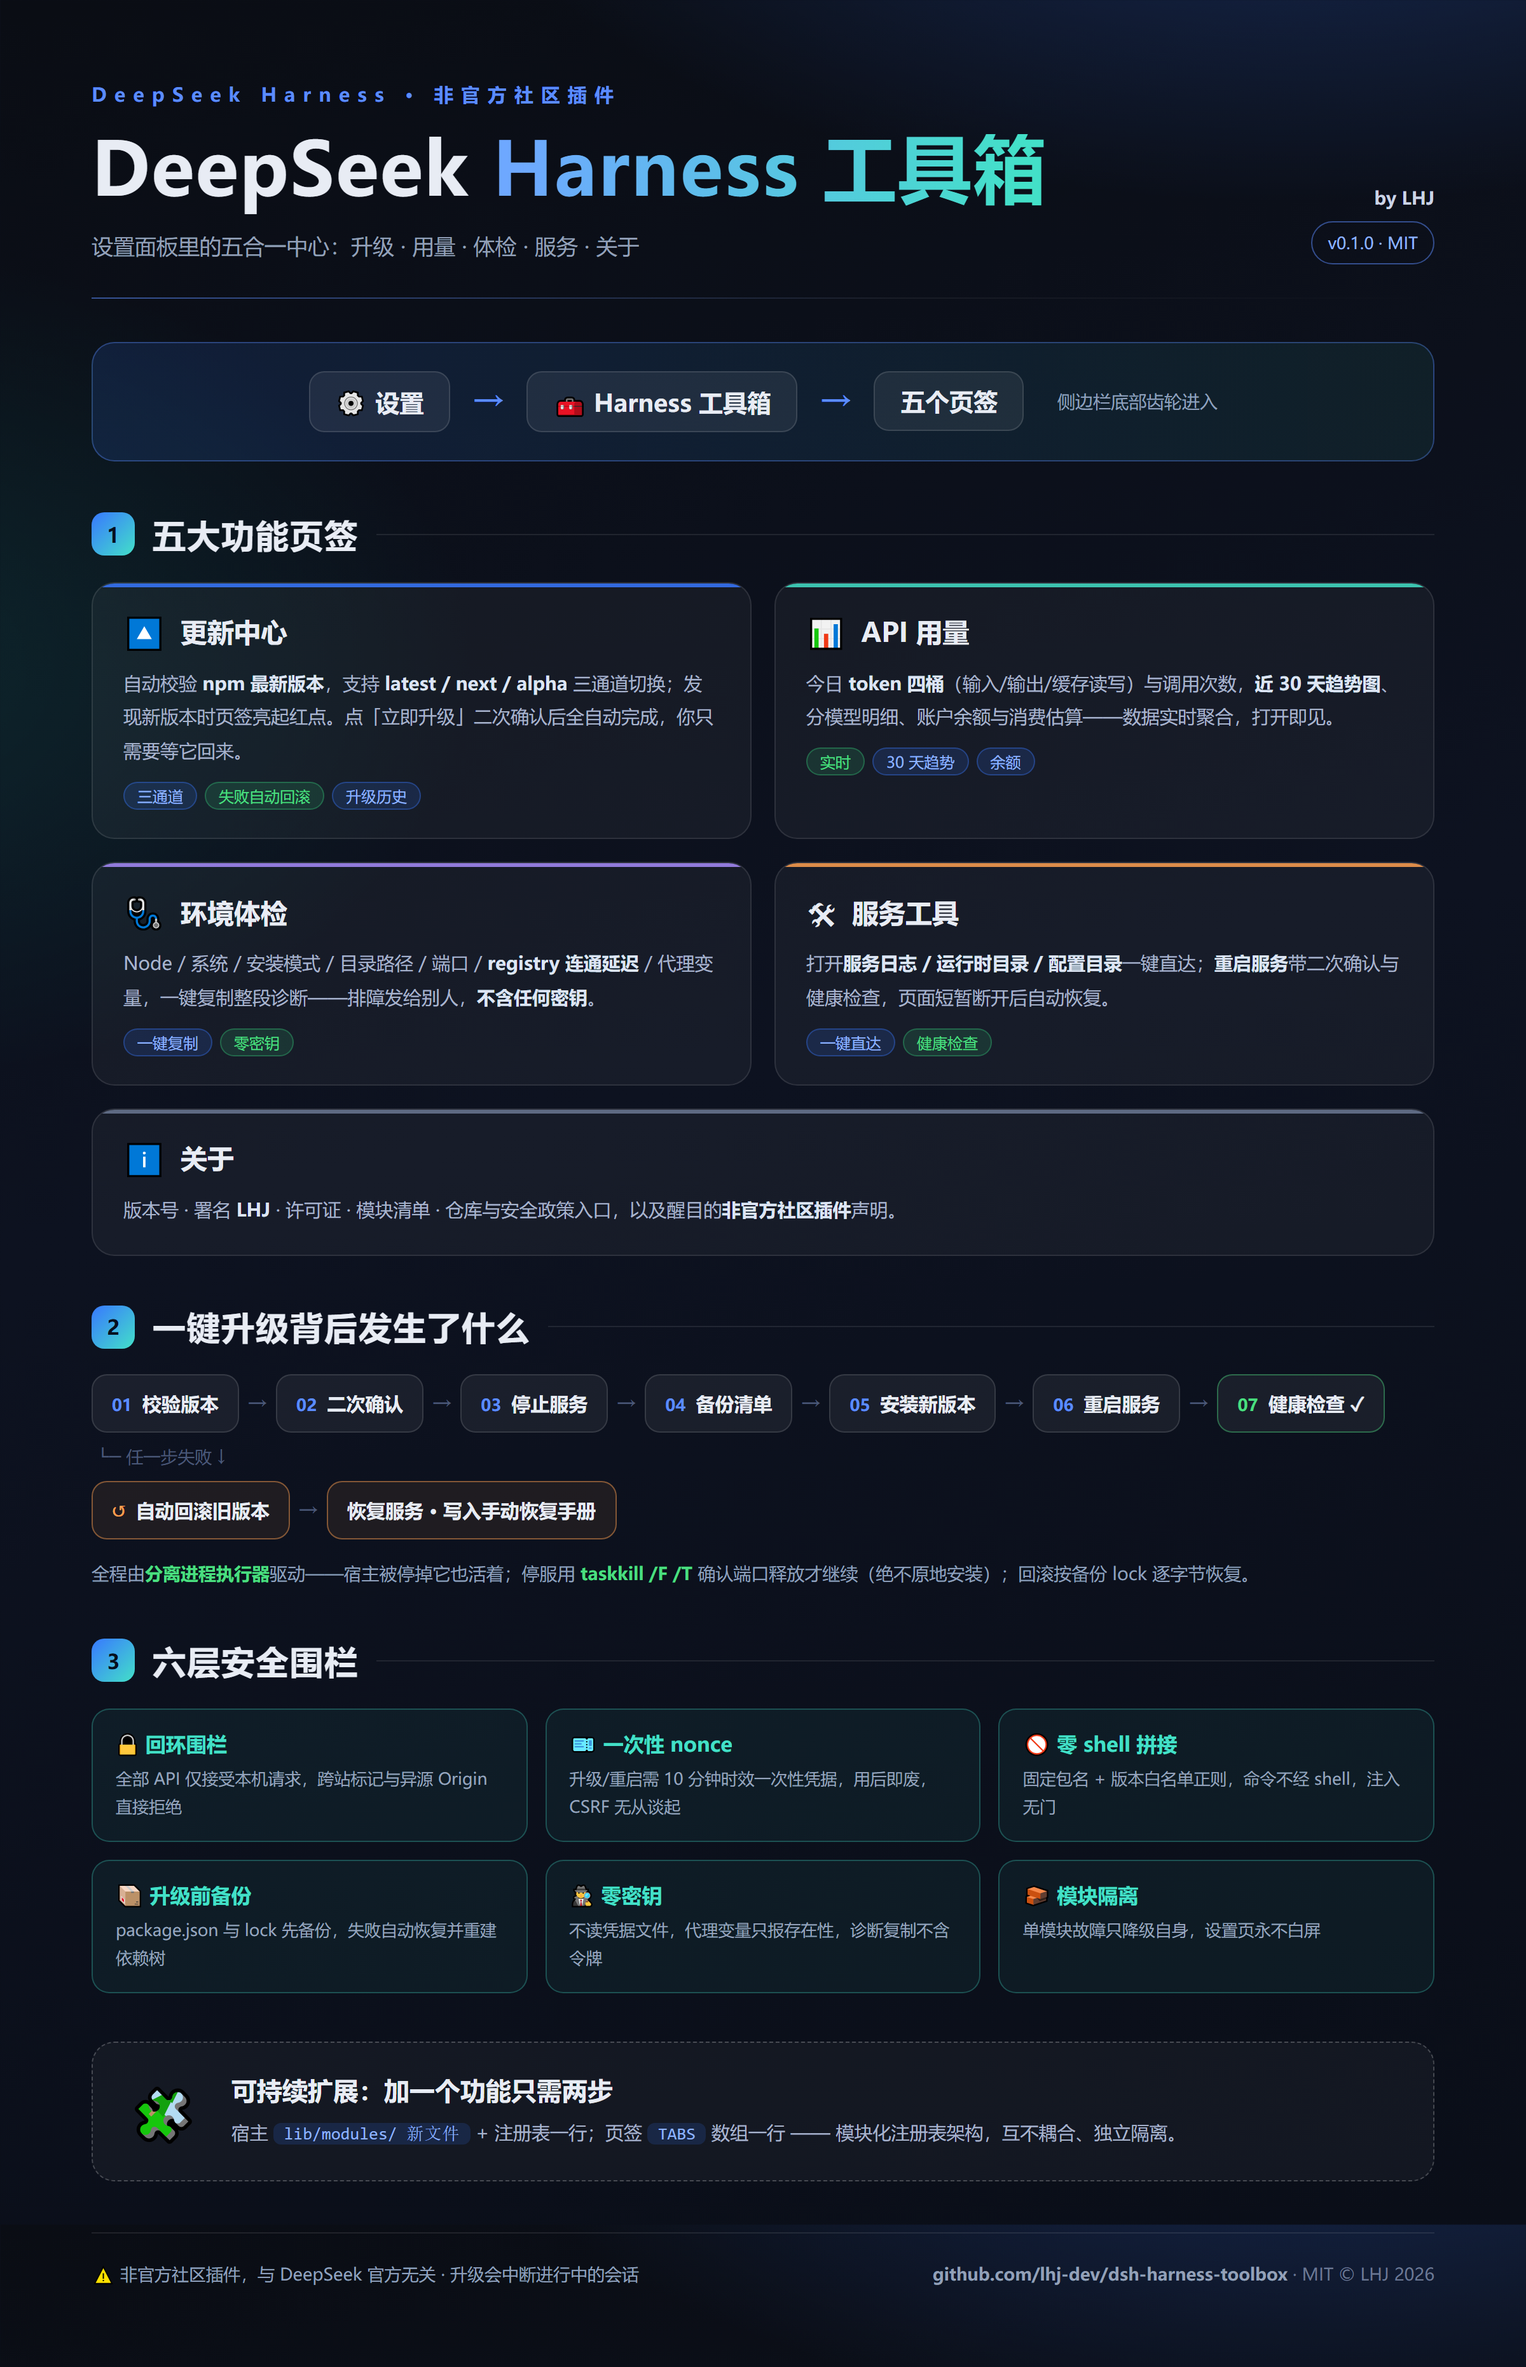
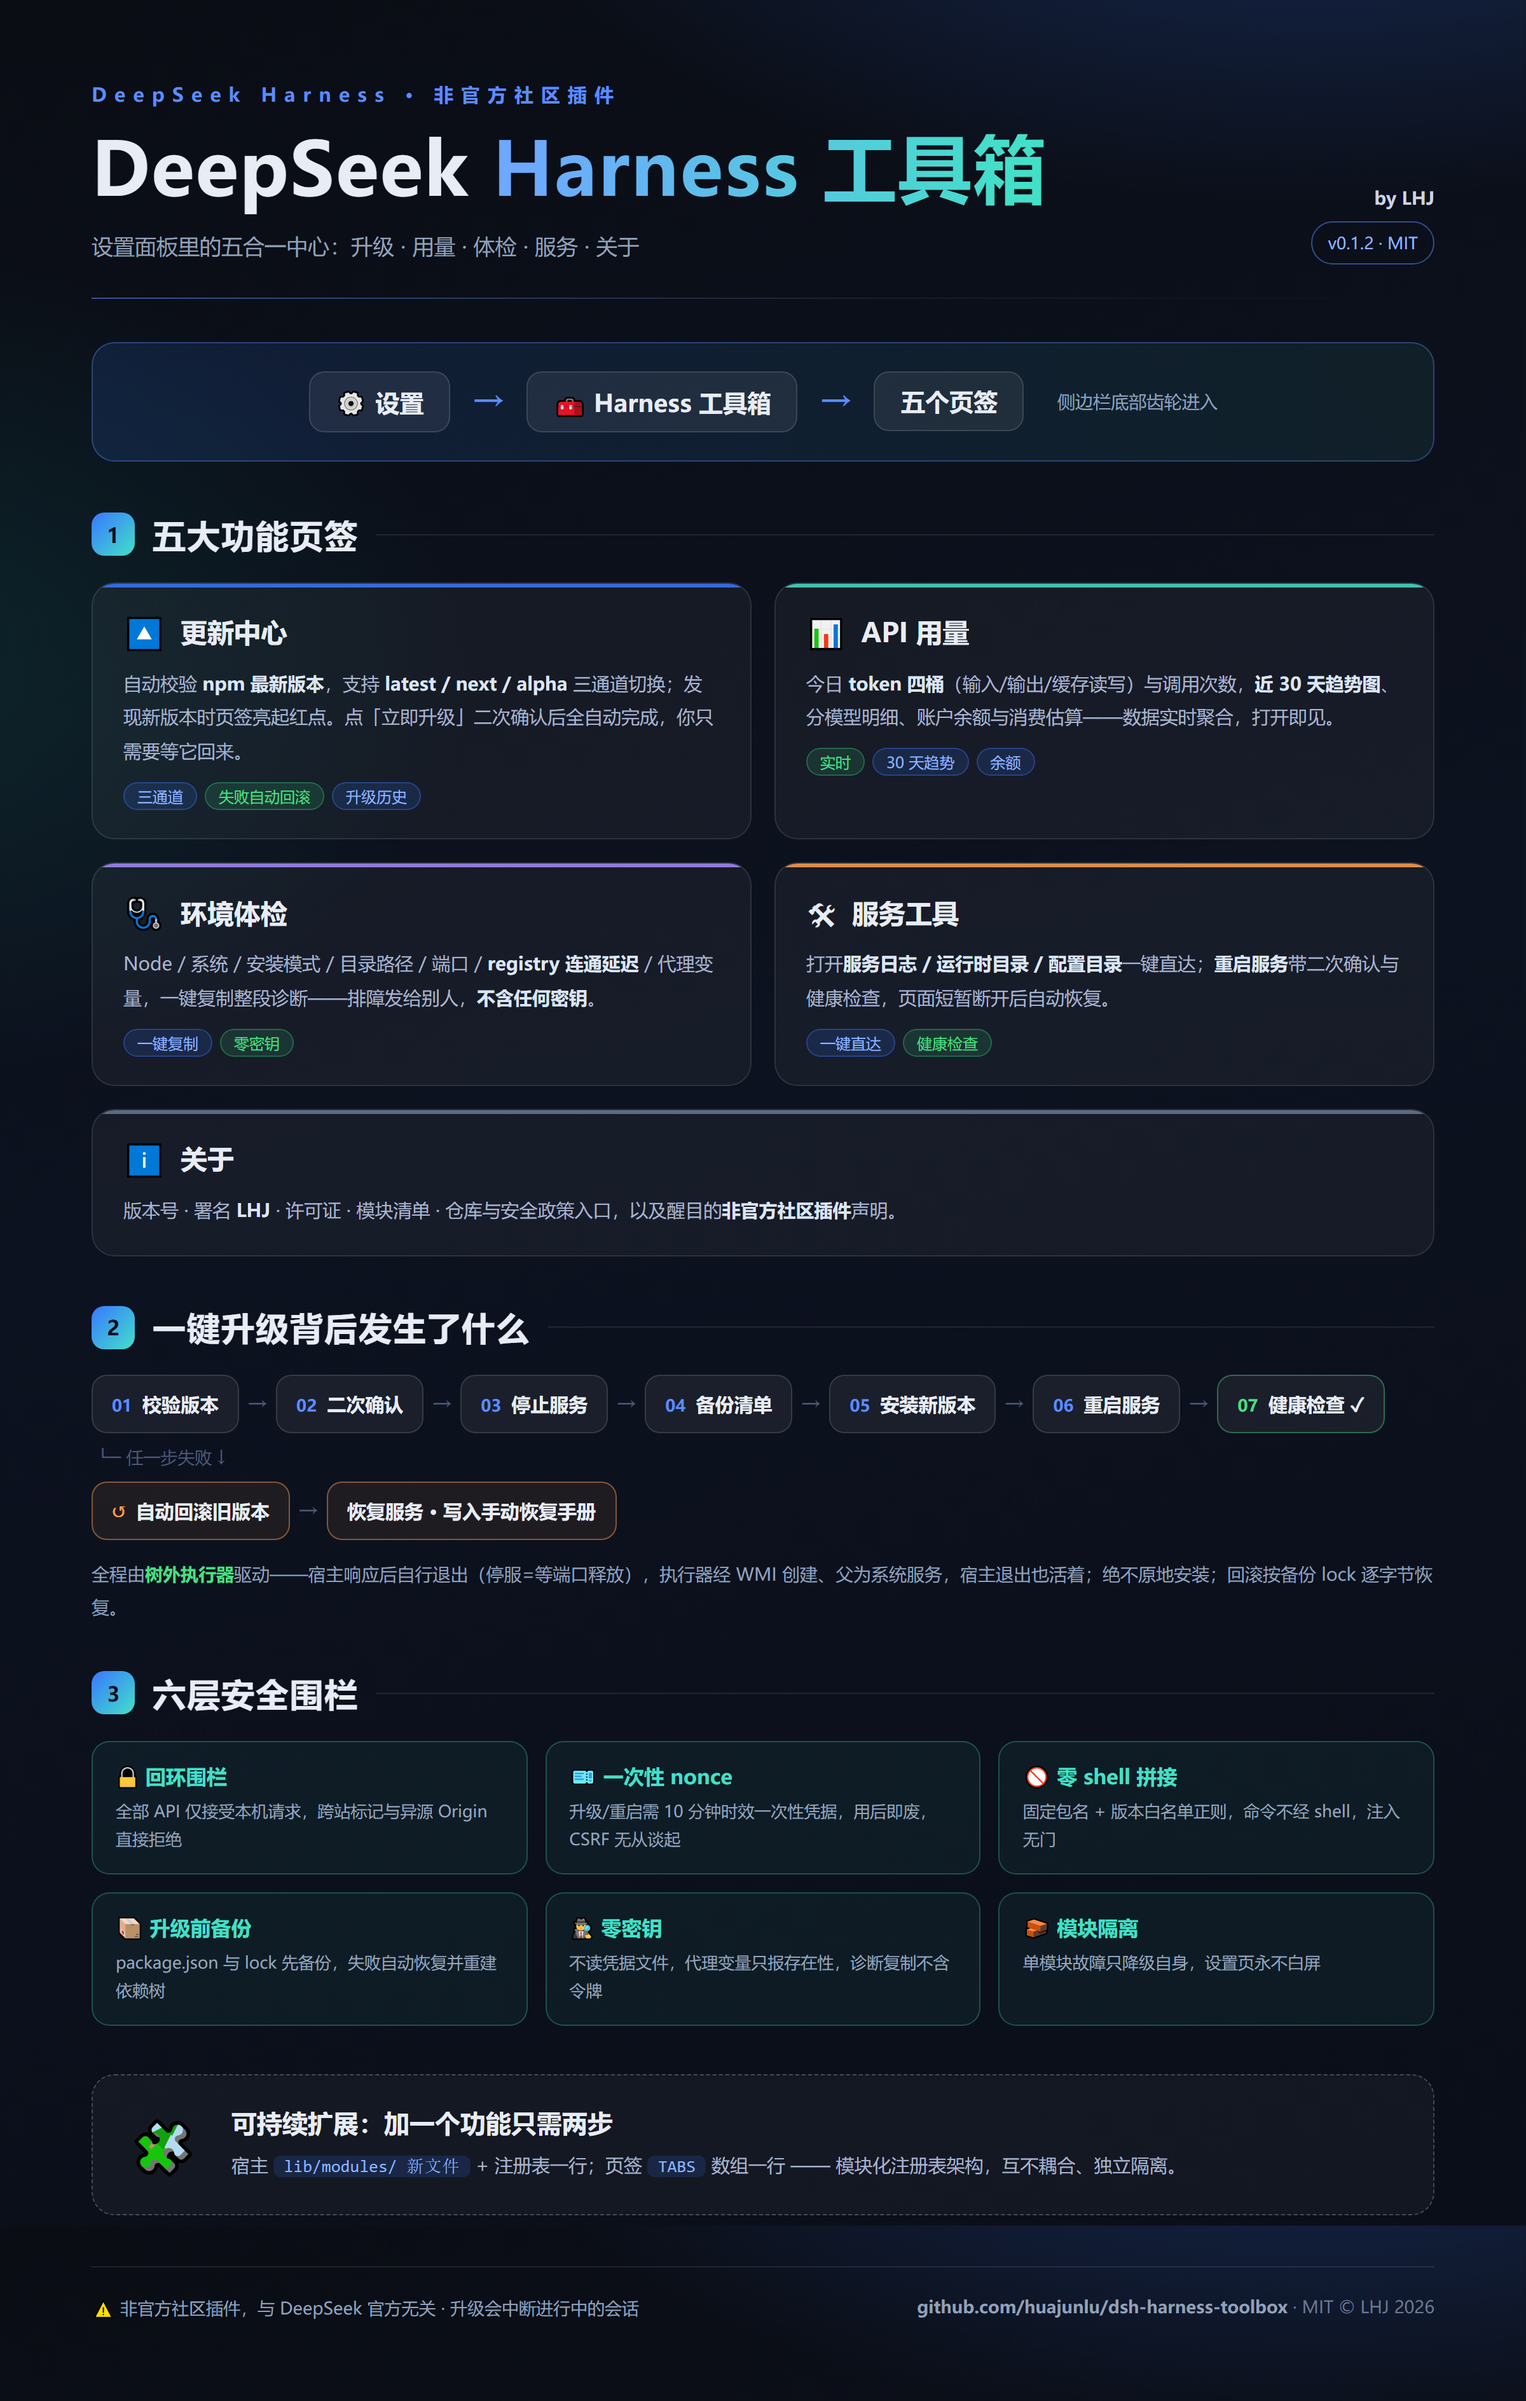
fix: v0.1.2 - correct repository metadata and harden the deploy tooling
- repository/homepage pointed at a non-existent owner (lhj-dev); now
  huajunlu. lib/modules/about.js derives the repo URL from package.json
  so the two values can no longer drift apart;
- scripts/deploy.mjs: each package is built in a temp dir, statically
  validated (manifest, entry points, client API prefix/id/NS, node
  --check) and swapped in by rename instead of rmSync+copy - a
  half-written directory could be imported by the host watcher and wipe
  the running instance's routes (observed 2026-09-25). Shell healing now
  runs only after the probe confirms the new instance serves, and a
  failed probe restores the previous patch so the profile never points
  at a name that is not serving;
- new scripts/restart-host.mjs: scheduled cold start of the host via WMI
  (out-of-tree), wired to `deploy.mjs --restart` because hot patch reload
  is unreliable on some hosts; it waits for the port, falls back to a
  direct start, and refreshes state.txt with the new token URL;
- usage-guide infographic re-rendered: repo URL, version badge and the
  stop-service description now match the out-of-tree architecture.

Verified: deploy self-test in an isolated profile (atomic landing,
validation, shell healing, probe-failure rollback, zero leftovers);
smoke 16/16.

diff --git a/docs/usage-guide.html b/docs/usage-guide.html
@@ -128,7 +128,7 @@
     </div>
     <div class="by">
       <b>by LHJ</b><br>
-      <span class="ver">v0.1.0 · MIT</span>
+      <span class="ver">v0.1.2 · MIT</span>
     </div>
   </div>
   <div class="divider"></div>
@@ -177,8 +177,7 @@
   <div class="flow">
     <div class="fstep"><span class="n">01</span>校验版本</div><span class="farrow">→</span>
     <div class="fstep"><span class="n">02</span>二次确认</div><span class="farrow">→</span>
-    <div class="fstep"><span class="n">03</span>停止服务</div><span class="farrow">→</span>
-    <div class="fstep"><span class="n">04</span>备份清单</div><span class="farrow">→</span>
+    <div class="fstep"><span class="n">03</span>停止服务</div><span class="farrow">→</span>    <div class="fstep"><span class="n">04</span>备份清单</div><span class="farrow">→</span>
     <div class="fstep"><span class="n">05</span>安装新版本</div><span class="farrow">→</span>
     <div class="fstep"><span class="n">06</span>重启服务</div><span class="farrow">→</span>
     <div class="fstep ok"><span class="n">07</span>健康检查 ✓</div>
@@ -187,7 +186,7 @@
     <div class="fstep rb">恢复服务 · 写入手动恢复手册</div>
   </div>
   <div class="flow-note">
-    全程由<b>分离进程执行器</b>驱动——宿主被停掉它也活着；停服用 <b>taskkill /F /T</b> 确认端口释放才继续（绝不原地安装）；回滚按备份 lock 逐字节恢复。
+    全程由<b>树外执行器</b>驱动——宿主响应后自行退出（停服=等端口释放），执行器经 WMI 创建、父为系统服务，宿主退出也活着；绝不原地安装；回滚按备份 lock 逐字节恢复。
   </div>
 
   <!-- 安全 -->
@@ -212,7 +211,7 @@
 
   <div class="foot">
     <span class="warn">⚠ 非官方社区插件，与 DeepSeek 官方无关 · 升级会中断进行中的会话</span>
-    <span><b>github.com/lhj-dev/dsh-harness-toolbox</b> · MIT © LHJ 2026</span>
+    <span><b>github.com/huajunlu/dsh-harness-toolbox</b> · MIT © LHJ 2026</span>
   </div>
 
 </div>

diff --git a/lib/modules/about.js b/lib/modules/about.js
@@ -14,14 +14,23 @@ import { API_PREFIX } from '../prefix.js'
 
 const PREFIX = API_PREFIX
 
-/** 读本包 package.json 的 name/version（找不到时兜底常量）。 */
+/** 读本包 package.json 的 name/version/repository（找不到时兜底常量）。
+ *  repository 以 package.json 为单一事实来源——避免仓库地址在两处漂移。 */
 function packageMeta() {
+  const FALLBACK = 'https://github.com/huajunlu/dsh-harness-toolbox'
   try {
     const here = path.dirname(fileURLToPath(import.meta.url))
     const manifest = JSON.parse(fs.readFileSync(path.join(here, '..', '..', 'package.json'), 'utf8'))
-    return { name: String(manifest.name ?? 'dsh-harness-toolbox'), version: String(manifest.version ?? '0.0.0') }
+    const raw = manifest.repository
+    const url = typeof raw === 'string' ? raw : (raw && typeof raw.url === 'string' ? raw.url : '')
+    const repo = url.replace(/^git\+/, '').replace(/\.git$/, '')
+    return {
+      name: String(manifest.name ?? 'dsh-harness-toolbox'),
+      version: String(manifest.version ?? '0.0.0'),
+      repository: repo || FALLBACK,
+    }
   } catch {
-    return { name: 'dsh-harness-toolbox', version: '0.0.0' }
+    return { name: 'dsh-harness-toolbox', version: '0.0.0', repository: FALLBACK }
   }
 }
 
@@ -47,8 +56,8 @@ export function registerAbout(ctx) {
           zh: '本插件为社区开源作品，非 DeepSeek 官方出品；名称中的 DeepSeek Harness 指其所适配的宿主产品。',
           en: 'An unofficial community plugin. "DeepSeek Harness" refers to the host product it integrates with.',
         },
-        repository: 'https://github.com/lhj-dev/dsh-harness-toolbox',
-        security: 'https://github.com/lhj-dev/dsh-harness-toolbox/blob/main/SECURITY.md',
+        repository: meta.repository,
+        security: meta.repository + '/blob/main/SECURITY.md',
         modules: moduleMeta(),
         hostPid: process.pid,
       })

diff --git a/lib/client.js b/lib/client.js
@@ -33,7 +33,7 @@ window.__ModuleLoader__.load({
 		const zh = {
 			"nav": "Harness 工具箱",
 			"title": "DeepSeek Harness 工具箱",
-			"byline": "by LHJ · v0.1.1",
+			"byline": "by LHJ · v0.1.2",
 			"tab.updater": "更新中心",
 			"tab.usage": "API 用量",
 			"tab.diagnose": "环境体检",
@@ -127,7 +127,7 @@ window.__ModuleLoader__.load({
 		const en = {
 			"nav": "Harness Toolbox",
 			"title": "DeepSeek Harness Toolbox",
-			"byline": "by LHJ · v0.1.1",
+			"byline": "by LHJ · v0.1.2",
 			"tab.updater": "Updates",
 			"tab.usage": "API Usage",
 			"tab.diagnose": "Diagnostics",
